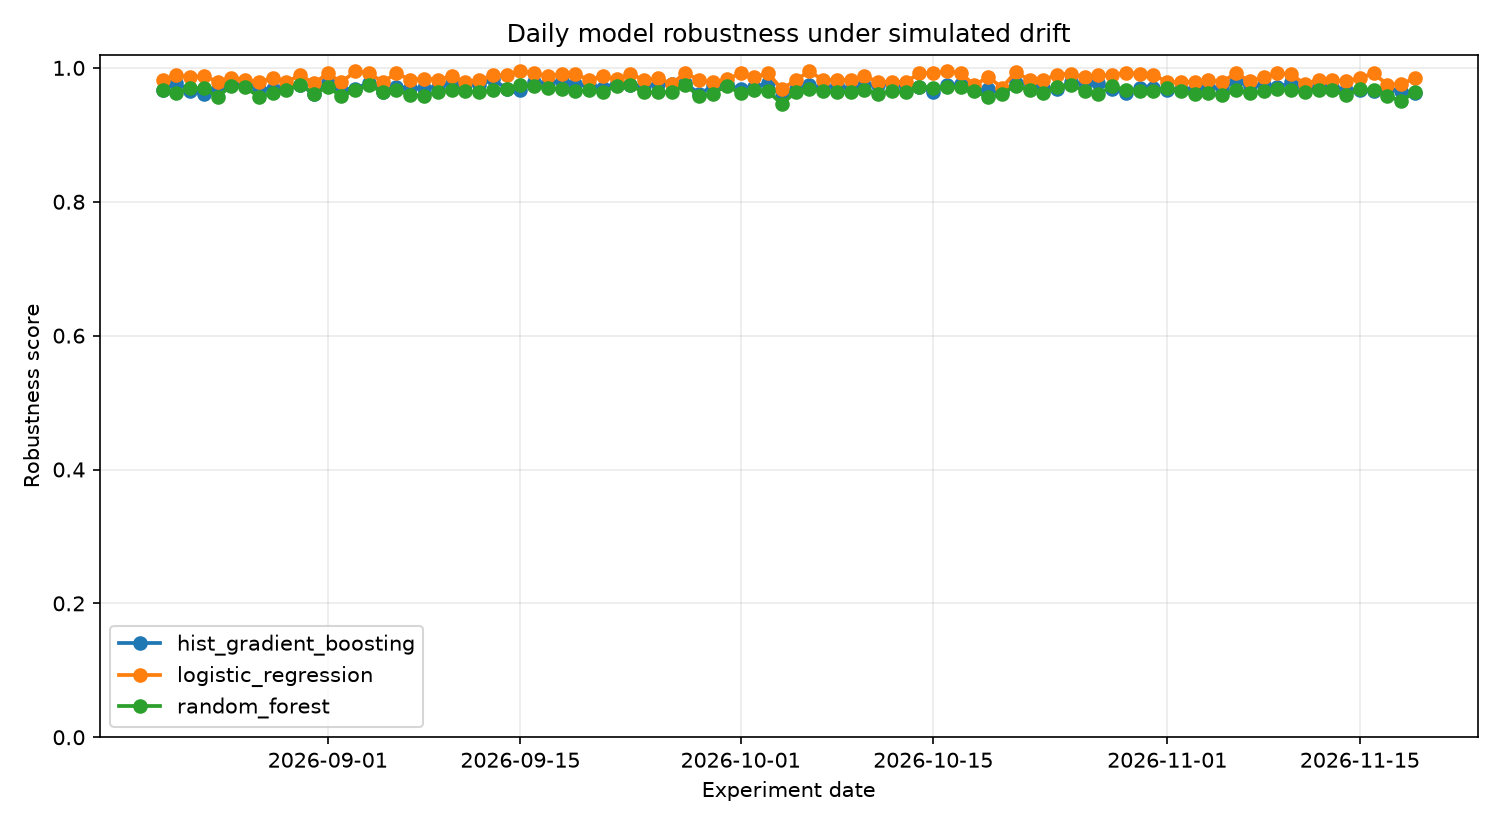
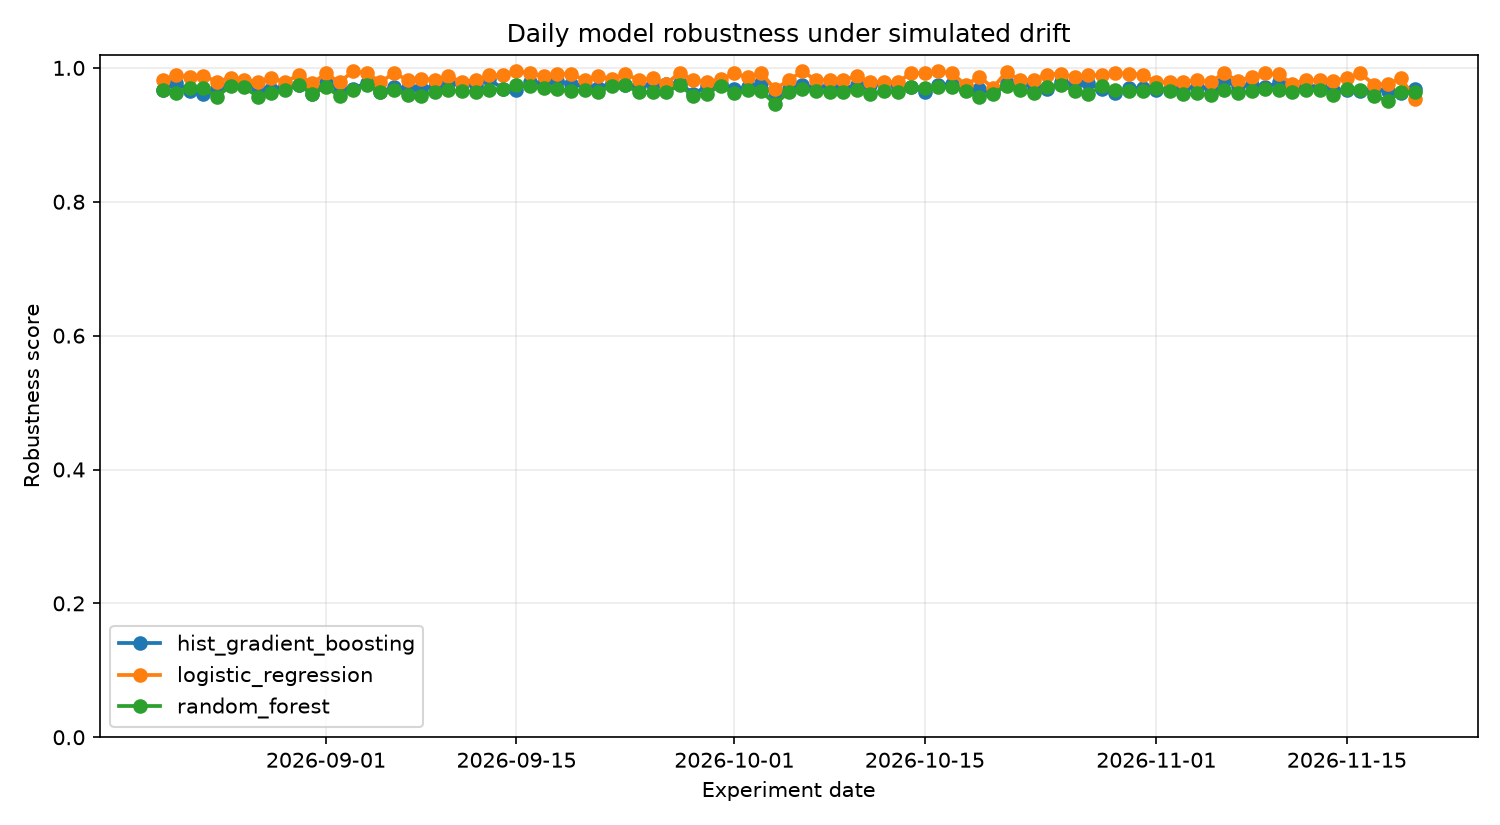
chore(observatory): daily drift benchmark 2026-11-20

diff --git a/reports/latest.md b/reports/latest.md
@@ -1,37 +1,37 @@
 # Latest DriftWatch Report
 
-**Experiment date:** 2026-11-19
+**Experiment date:** 2026-11-20
 
 ## Drift scenario
 
-- Drift strength: `0.428`
-- Scale factor: `1.043`
-- Noise ratio: `0.076`
-- Mask ratio: `0.020`
-- Affected features: mean compactness, mean concave points, compactness error, concave points error, fractal dimension error, worst area, worst fractal dimension
+- Drift strength: `0.455`
+- Scale factor: `1.045`
+- Noise ratio: `0.080`
+- Mask ratio: `0.021`
+- Affected features: mean area, mean concavity, radius error, worst perimeter, worst smoothness, worst concave points, worst fractal dimension
 
 ## Model ranking
 
 | Rank | Model | Robustness | ROC-AUC | F1 | Balanced Acc. | Log Loss | Brier |
 |---:|---|---:|---:|---:|---:|---:|---:|
-| 1 | `logistic_regression` | 0.9842 | 0.9972 | 0.9763 | 0.9735 | 0.0801 | 0.0224 |
-| 2 | `random_forest` | 0.9635 | 0.9904 | 0.9474 | 0.9392 | 0.1620 | 0.0465 |
-| 3 | `hist_gradient_boosting` | 0.9631 | 0.9896 | 0.9479 | 0.9360 | 0.1317 | 0.0434 |
+| 1 | `hist_gradient_boosting` | 0.9684 | 0.9949 | 0.9515 | 0.9501 | 0.1722 | 0.0503 |
+| 2 | `random_forest` | 0.9644 | 0.9923 | 0.9469 | 0.9423 | 0.1731 | 0.0506 |
+| 3 | `logistic_regression` | 0.9539 | 0.9977 | 0.9200 | 0.9221 | 0.1635 | 0.0554 |
 
 ## Highest feature drift (PSI)
 
 | Feature | PSI |
 |---|---:|
-| fractal dimension error | 2.6899 |
-| compactness error | 1.4220 |
-| worst area | 1.4190 |
-| mean concave points | 0.5917 |
-| mean compactness | 0.4838 |
-| concave points error | 0.4395 |
-| worst fractal dimension | 0.3310 |
-| worst concavity | 0.1725 |
+| mean concavity | 1.5274 |
+| radius error | 0.5083 |
+| worst perimeter | 0.4248 |
+| mean area | 0.3847 |
+| worst fractal dimension | 0.3501 |
+| worst concave points | 0.2705 |
+| texture error | 0.1924 |
+| worst smoothness | 0.1830 |
 
-**Mean PSI:** `0.3063`  
-**Max PSI:** `2.6899`
+**Mean PSI:** `0.1872`  
+**Max PSI:** `1.5274`
 
 _Generated automatically by the DriftWatch daily observatory pipeline._
